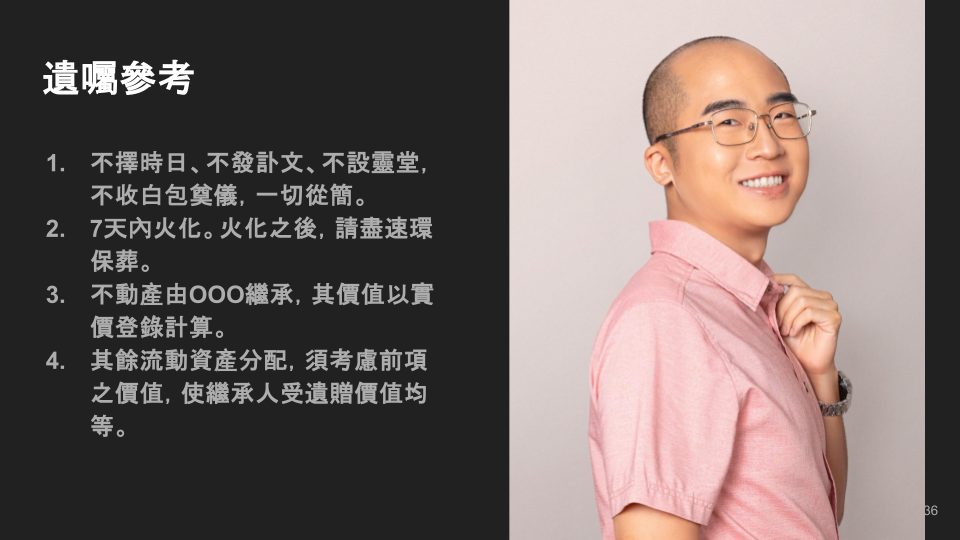
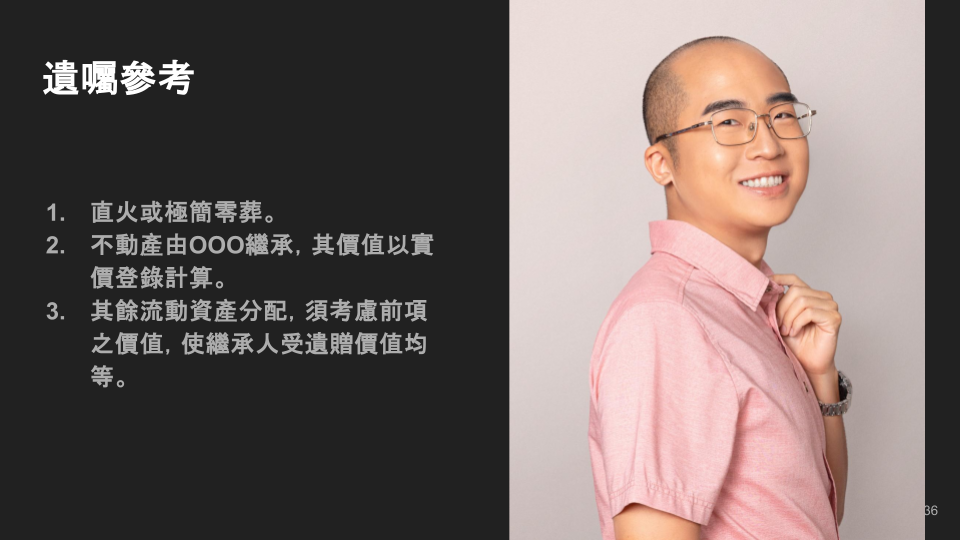
wip

diff --git a/finance/retirement-2.md b/finance/retirement-2.md
@@ -1,19 +1,11 @@
 ---
 description: 退休規劃(下)》涵蓋財務、醫療、法律及生死議題，適合規劃退休生活及希望減少家人壓力的人。
-outline: deep
+outline: [2,3]
 ---
 
 # 退休規劃（下）：全面考量財務、醫療、法律及生死規劃
 
 在整理這篇文章的過程中，我廣泛參考了各類退休規劃書籍，以全方位了解退休生活的需求，從財務安排到健康管理，再到法律保障。然而，在探索生死議題時遇到了一些挑戰，直到發現「[冬瓜行旅](https://owt.com.tw/)」網站，這才填補了最後一塊拼圖。這篇退休規劃指南綜合了各方資源，旨在為讀者提供在財務、醫療、法律及生死議題上的清晰路徑，助您規劃一個安心、充實的退休生活。
-
-在生死規劃中，兩個重要的概念——「**天堂筆記本**」與「**單程行李箱**」——值得特別關注。這些概念不僅幫助人們以具體的準備面對最終安排，也有效減輕了家人的負擔：
-
-- **天堂筆記本**：天堂筆記本是一本全面記錄個人重要資訊的筆記，涵蓋財務、醫療、保險、法律等資料，以方便家屬在關鍵時刻找到所有必要的訊息。這本筆記包含遺產分配、保單詳情、重要文件位置等，確保遺族在處理後事時有完整的指南，減少無所適從的感覺。
-
-- **單程行李箱**：這是一個象徵性的概念，意指在人生的最後旅程前將「行李」整理妥當，包括遺願的表達、紀念物的整理、重要事項的交代等。透過準備單程行李箱，家屬能更從容地接受並管理遺物，既能追憶逝者，也能妥善處理各項遺留事務。
-
-這兩個概念為生死規劃注入了溫情與實用性，讓我們能夠從容準備好這趟「單程旅程」，同時也為家人留下最溫暖的關愛。希望這篇指南能在財務、醫療、法律與生死議題上為您提供全面的建議，助您做好退休後的每一項安排。
 
 ![冬瓜行旅](/finance/retirement/冬瓜行旅.jpg "冬瓜行旅")
 
@@ -61,51 +53,35 @@ outline: deep
 
 ![數位資產範例](/finance/retirement/數位資產範例.png "數位資產範例")
 
-### 海外券商
+### 海外券商 vs 國內複委託
 
-選擇海外券商進行投資，例如 **eToro**、**TD Ameritrade** 或 **First Trade**，雖然在手續費和進階功能上可能更具吸引力，但從退休規劃的角度來看，這些選擇也伴隨著許多潛在風險，特別是在遺產繼承和稅務上：
+海外券商和國內複委託各自有其優劣，對於想透過海外投資進行退休規劃的人來說，這兩種途徑的選擇應該根據長期的資產穩定性、管理便捷性及稅務考量來進行。海外券商在費用和功能上可能具有一定吸引力，但在資產透明性及繼承便捷性方面，卻不如國內複委託。以下為兩者的詳細比較：
 
-1. **資產不透明性**：家屬通常不會知道這些海外帳戶的存在，除非投資者提前留下詳細記錄。一旦投資者過世，家屬若不了解資產細節，取回資產的過程會非常困難，甚至無法追回。
+#### 1. 資產透明性與繼承便捷性
 
-2. **跨國法規的遺產稅負擔**：根據美國遺產稅法，若在美國擁有資產，家屬必須在投資人死亡後的9個月內向美國國稅局（IRS）繳交相關文件。文件要求嚴格，且[表格（706-NA）](https://www.irs.gov/pub/irs-pdf/f706na.pdf)必須精確填寫，否則可能會遭受罰款。對於家屬而言，需跨國處理遺產手續，且同時面對美國和本國的法規和稅務，這樣的負擔極為繁重。
+海外券商帳戶在資產透明度方面存在挑戰，因為家屬往往不清楚帳戶的存在，若投資人未提前交代，家屬可能無法查詢帳戶，也難以取回資產。相比之下，國內券商管理的複委託資產完全記錄在國內系統中，家屬只需向券商查詢即可掌握，過程簡單透明，顯著降低了繼承的難度和不確定性。
 
-3. **適用性有限**：在線上券商投資更適合經常更換國籍的投資者，而非有長期退休資產需求的投資者。對於希望退休資產穩定並容易管理的人來說，選擇海外券商增加了遺產繼承的難度和風險，無論在財務或法規上都可能帶來麻煩。
+#### 2. 稅務負擔與法規風險
 
-綜上所述，從退休規劃的角度選擇海外券商雖有其優勢，但其複雜的稅務和法規負擔增加了資產管理風險。
+選擇海外券商進行投資，意味著家屬可能需要同時應對跨國稅法。例如在美國擁有資產的情況下，家屬需在投資人過世後9個月內向美國國稅局（IRS）提交申報文件，且文件填寫須精確以避免罰款。國內複委託則讓資產遵循本國法規處理，家屬僅需依國內稅務規定申報遺產稅，減少了跨國稅務和法律合規的風險，簡化手續的同時，也降低了稅務負擔。
 
-### 複委託
+#### 3. 適用性與長期性考量
 
-與海外券商相比，**複委託**（由國內券商代為執行的海外交易）儘管交易手續費較高，但在退休規劃中更具優勢，因為它提供了以下保障：
+海外券商更適合需靈活應對多國投資的投資人，對於退休資產安全性和繼承便捷性需求高的投資者則可能風險較大。相比之下，複委託因國內券商統一管理資產、提供穩定且便捷的繼承程序，特別適合退休資產的長期規劃。複委託雖然手續費較高，但其穩定性、資產透明性及法律保障，讓投資人可安心進行長期投資，且家屬也能更順利地完成繼承。
 
-1. **資產透明和便捷性**：複委託的資產由國內券商管理，交易明細和持有的資產記錄都在國內券商系統內，家屬只需向券商查詢，流程透明、便捷。即使遺族沒有直接管理投資經驗，也能輕鬆找到相關資料。
-
-2. **法律保障與風險降低**：由於複委託是國內券商管理，資產在法律上屬於國內資產。這樣家屬僅需依據本國法規繳納遺產稅，無需面對兩國不同的稅法，減少了不必要的跨國法律風險。
-
-3. **便於繼承和轉移**：複委託資產在券商的帳戶內統一管理，家屬能更方便地辦理資產繼承手續，也不需擔心因跨國法規不同而影響到資產轉移。此外，國內券商的客服也能協助處理相關手續，減少家屬在情緒困難期的額外壓力。
-
-總而言之，從退休規劃的角度，複委託的穩定性、便利性與法律保障更符合退休後的投資需求，確保資產的安全和家屬的繼承便捷性。這樣的安排，不僅能讓您安心地分散投資，也減少了往生後家屬在財務上遇到的風險與困難。
+總結而言，從退休規劃角度看，複委託雖然在手續費上較高，但其資產管理、法律風險及繼承便捷性上更具優勢，更適合退休後長期的資產配置需求。
 
 ![複委託](/finance/retirement/複委託.png "複委託")
 
 ### 金融資產
 
-在整理生前和身後的金融資產時，透過有效的查詢工具，可以大幅提升透明度與效率，確保資產妥善管理，減少遺漏的風險。以下為常見的查詢方式：
-
-#### 生前金融資產查詢
+在整理生前金融資產時，透過有效的查詢工具，可以大幅提升透明度與效率，確保資產妥善管理，減少遺漏的風險。以下為常見的查詢方式：
 
 1. [**國稅局財產資料查詢**](https://www.etax.nat.gov.tw/etwmain/etw108w)：個人可透過國稅局查詢名下的動產和不動產資料，精確了解資產分布情況，便於全面掌握財產狀況。
-   
+
 2. [**銀行公會存款查詢**](https://www.ba.org.tw/PublicInformation/BusinessDetail/31)：透過銀行公會查詢各家銀行的存款帳號，一次查詢所有銀行存款資訊，便於統整並掌握所有銀行資產。
 
 3. [**集保帳戶及基金資料查詢系統**](https://taq.tdcc.com.tw/QRY/mainc.jsp)：投資者可以透過此系統查詢名下的股票、債券和基金，以便完整了解投資組合，掌握資產的全面分布。
-
-#### 身後金融資產查詢
-
-若投資人不幸過世，[國稅局的「單一窗口查詢金融遺產」](https://www.ntbt.gov.tw/multiplehtml/d0fb820339664903a443ef214be0bbce)是一項便捷的工具，旨在幫助遺族快速查詢所有金融資產。過去需要逐一查詢多個銀行或金融單位，但如今透過國稅局的單一窗口即可完成，查詢範圍包括存款、股票、基金、保險及其他金融工具，讓遺產查詢流程簡化，減少遺族的負擔與時間成本。
-
-這項服務不僅讓遺族能夠全面掌握逝者的金融資產，也有效減少遺產分配中可能遺漏的資產風險。遺族只需向國稅局提出申請並提供必要文件，經過審核後即可取得完整的查詢結果，使遺產處理更透明與便捷，成為處理遺產的重要工具。
-
-![單一窗口查詢金融遺產](/finance/retirement/單一窗口查詢金融遺產.jpg "單一窗口查詢金融遺產")
 
 ## 醫療
 
@@ -208,7 +184,6 @@ ACP 和 AD 的設置能讓個人更早確立並傳達其醫療意願，減輕家
 
 這些節稅管道為家庭財務管理提供了靈活性，有助於通過合理安排來降低遺產稅負擔，並保障資產傳承的順利進行。
 
-
 ### 遺囑種類及差異
 
 不同類型的遺囑在執行時對見證人需求和製作方式有不同要求，選擇合適的遺囑形式能確保遺囑內容得以合法並順利執行。遺囑的相關法律規範可參閱[民法第五編第三章](https://law.moj.gov.tw/LawClass/LawParaDeatil.aspx?pcode=B0000001&bp=133)，其中詳細說明了遺囑的製作方式、見證人資格和各種遺囑形式的法律要件，以保障遺囑的有效性並避免後續爭議。
@@ -220,7 +195,6 @@ ACP 和 AD 的設置能讓個人更早確立並傳達其醫療意願，減輕家
 | **代筆遺囑** | 由他人代為書寫，遺囑人需簽名並有見證人在場。 | 是（3人以上） |
 | **公證遺囑** | 遺囑由公證人製作，並有見證人在場，具法律保障。 | 是（2人以上） |
 | **密封遺囑** | 遺囑由遺囑人密封，交由公證人保管，見證人在場。 | 是（2人以上） |
-
 
 #### 案例：遺囑見證人爭議
 
@@ -240,37 +214,79 @@ ACP 和 AD 的設置能讓個人更早確立並傳達其醫療意願，減輕家
 
 ## 生死
 
-### 完整殯葬流程
-
-在傳統與現代殯葬儀式中，完整的殯葬流程通常包括以下步驟：
-
-1. **臨終關懷**：家屬需準備好必要文件，瞭解所需的宗教儀式，並由殯儀人員簡介殯葬流程，協助家屬心理準備，減少後續壓力。
-2. **遺體接運與安置**：殯儀公司將遺體從醫院或家中接運至殯儀館或靈堂，並根據傳統儀式進行冰存或適當安置（如男左女右、頭內腳外）。
-3. **豎靈與靈堂設置**：設置靈堂和豎立靈位（神主牌），為親友提供悼念空間，按照傳統儀式的規範佈置，以表達對逝者的尊敬。
-4. **訃聞／發喪**：印製訃聞，通知親友喪禮的具體安排，讓至親好友知悉出殯日期，方便前來悼念和送別。
-5. **入殮**：小殮時對遺體進行整理和更衣，大殮則將遺體正式入棺，並完成蓋棺儀式，以備出殯。
-6. **治喪協調與告別追思**：治喪團隊協調家奠、公奠（告別式），家屬、親友及外賓依序進行追思和奠祭儀式，表達對逝者的哀悼。
-7. **火化、安葬**：告別儀式後進行火化，並依家屬意願將骨灰安置於靈骨塔、祠堂或墓地，亦可選擇直接土葬。
-8. **進塔／晉塔／進金**：骨灰火化後安置於靈骨塔或祠堂，進行晉塔儀式，並祭拜亡者和土地公，確保亡者靈魂安息。
-9. **返主安靈**：安葬後將亡者神主牌返主供奉，設置靈桌並進行安靈儀式，為逝者靈位找到穩定的祭拜之處。
-10. **慎終追遠**：後續的百日、對年、三年等時刻，以及清明、忌日的祭拜和掃墓，延續對亡者的思念。
-
-此流程涵蓋了從遺體接運到火化安葬及後續祭拜的各環節，尊重傳統的同時提供靈活選項。家屬可根據宗教信仰和文化偏好進行選擇和調整，以平衡禮儀與實際需求。更詳細資訊可參考冬瓜行旅的[中式喪禮小百科](https://owt.com.tw/taiwanese-funeral/)。
-
-![冬瓜行旅](/finance/retirement/冬瓜行旅.jpg "冬瓜行旅")
-
 ### 何謂“一切從簡”？
 
-「一切從簡」的殯葬流程，亦稱「[直火式](https://www.4450.com.tw/service/%E6%AD%B8%E7%A9%BA%E7%9B%B4%E7%81%AB)」或「[極簡式](https://www.hd-fs.com.tw/%E6%AE%AF%E8%91%AC%E8%B2%BB%E7%94%A8_%E6%A5%B5%E7%B0%A1%E9%9B%B6%E8%91%AC%E5%9E%8B.html)」殯葬，旨在用最簡便的方式完成遺體處理，強調高效、低成本，並減少對環境的負擔。這種流程適合希望殯葬過程儉約的家庭，特別是注重環保或希望減少繁文縟節的人。以下是每一步的詳情：
+「一切從簡」的殯葬流程，亦稱為「[直火式](https://www.4450.com.tw/service/%E6%AD%B8%E7%A9%BA%E7%9B%B4%E7%81%AB)」或「[極簡式](https://www.hd-fs.com.tw/%E6%AE%AF%E8%91%AC%E8%B2%BB%E7%94%A8_%E6%A5%B5%E7%B0%A1%E9%9B%B6%E8%91%AC%E5%9E%8B.html)」，旨在以最簡便的方式完成遺體處理，強調效率、低成本，並減少對環境的影響。這種方式適合希望儉約的家庭，特別是注重環保或希望減少繁瑣儀式的家庭。具體流程如下：
 
-1. **接送**：逝者身故後，家屬通知殯葬業者將遺體從醫院或家中直接接送至火葬場，不需暫時安置於殯儀館或設置靈堂。這一步驟省去了遺體停放和靈堂佈置的費用，直接進入後續流程。
-2. **入殮**：在火葬場或指定地點進行簡單的入殮處理。這通常包含將遺體安置在簡便的棺木或火葬專用容器中，不需進行防腐處理、整容或化妝。這樣的簡單入殮既節省成本，也符合快速、樸素的殯葬理念。
-3. **火化**：遺體接送和入殮完成後，無需選擇特定時日或舉行告別儀式，便可立即進行火化。火化過程中，家屬可以選擇是否陪同見證，但不安排正式的告別會或祭拜儀式。火化程序結束後，遺體火化成骨灰，由殯葬人員進行冷卻和骨灰收集。
-4. **環保葬**：火化後的骨灰可由家屬選擇環保葬的方式處理，例如海葬、樹葬、撒入花園或森林等自然環境。這些環保葬法不僅免去骨灰罈和靈骨塔的存放費用，還能減少對土地資源的佔用，更符合現代人對於永續和環保的需求。
+1. **接送**：逝者身故後，家屬可通知殯葬業者將遺體從醫院或家中直接送至火葬場，無需暫時安置於殯儀館或設置靈堂。此步驟省去靈堂佈置及租用費用，使流程更為簡便。
 
-「一切從簡」的殯葬安排提供了相對於傳統儀式更現代、更環保的選項，讓逝者安息的過程既平靜莊重，又減輕了家屬的心理與經濟負擔。
+2. **入殮**：在「一切從簡」的流程中，入殮指將遺體安置於火葬場或指定地點，使用簡便的棺木或火葬專用容器，且無需進行防腐處理。防腐多用於延長保存，而在此流程中，由於火化迅速進行，防腐並非必要，這樣可使流程更符合儉約與環保的理念。
+
+3. **火化**：遺體接運和入殮完成後，即可直接進行火化，無需挑選特定時辰，也不設告別儀式。家屬可以選擇是否在場見證，但通常不安排正式祭拜活動。火化結束後，由殯葬人員冷卻並收集骨灰。如選擇環保葬，或於七日內完成火化，火化費用可獲減免，進一步減輕家屬負擔。
+
+4. **環保葬**：火化後的骨灰可由家屬選擇自然處理方式，如海葬、樹葬、撒入花園或森林等。環保葬法不僅免去骨灰罈和靈骨塔的費用，還減少土地占用，更符合現代人對環保與永續的追求。
+
+「一切從簡」的殯葬方式提供了相較傳統儀式更現代、更環保的選擇，使逝者的安息過程既平靜莊重，又減輕家屬的心理和經濟負擔。
 
 ![環保葬](/finance/retirement/環保葬.jpg "環保葬")
+
+### 喪葬補貼與死亡給付
+
+勞工在家屬過世時，除了可以申請**勞工保險的家屬死亡給付**，公司內的**職工福利委員會（職福會）**也可能提供**喪葬互助**等相關補助。以下是詳細說明：
+
+#### 勞工保險的家屬死亡給付
+
+根據勞工保險規定，當被保險人的直系親屬（如配偶、父母、子女）過世時，被保險人可以申請家屬死亡給付。
+
+- **給付對象**：被保險人的配偶、父母、子女
+- **給付標準**：喪葬津貼為被保險人月投保薪資的三個月金額
+- **申請期限**：應於家屬死亡之翌日起五年內提出申請
+
+詳細資訊可參考[勞動部勞工保險局的官方說明](https://www.bli.gov.tw/0017482.html)。
+
+#### 職工福利委員會的喪葬互助
+
+許多公司設有職工福利委員會，為員工提供各種福利，包括喪葬互助。這些互助措施通常由職福會每月從員工薪資中扣繳福利金，專款設置「同仁互助福利基金」，以辦理員工互助事宜。
+
+- **申請條件**：根據公司內部規定，需向職福會申請
+- **給付內容**：因公司規定而異，具體內容請洽公司人力資源部門或職福會
+
+具體的喪葬互助內容和申請方式可能因公司規定而有所不同，建議您向公司人力資源部門或職福會查詢相關細節。
+
+透過上述兩種途徑，勞工在家屬過世時可以獲得一定的經濟協助，減輕喪葬負擔。
+
+![職工福利委員會](/finance/retirement/職工福利委員會.jpg "職工福利委員會")
+
+### 遺產稅流程
+
+1. **除戶登記**：至戶政事務所辦理逝者除戶登記，並取得相關文件。
+2. **查調所得財產**：向金融機構或政府機關查詢逝者的所有財產，包括存款、不動產、證券等。
+3. **申報遺產稅**：在申報遺產稅時，您可以利用國稅局提供的「[單一窗口查詢金融遺產](https://www.ntbt.gov.tw/multiplehtml/d0fb820339664903a443ef214be0bbce)」服務，方便地查詢被繼承人的金融遺產資料。此服務可透過線上申請或親自前往國稅局辦理。查詢內容包括存款、基金、上市（櫃）有價證券、人身保險等多項金融資產。透過此服務，您可以更全面地掌握被繼承人的財產狀況，協助準確申報遺產稅。
+4. **取得遺產稅證明**：申報完成後，國稅局核發遺產稅完稅或免稅證明。
+5. **查詢有無欠稅**：確認逝者是否尚有未繳納的稅款，避免遺產過戶後出現稅務問題。
+6. **辦理遺產過戶**：持遺產稅證明、繼承權文件等，辦理財產過戶手續，使遺產正式轉移給繼承人。
+
+#### 房地產
+
+房地產繼承需辦理[不動產過戶手續](https://www.etax.nat.gov.tw/etwmain/tax-info/house-land-transfer-taxtation-calculation-area/inheritance/file-process)，繼承人向地政事務所申請繼承登記，並依公告現值計算遺產稅，需提供繼承權證明文件和不動產登記證明等資料。
+
+#### 汽機車
+
+車主過世後，車輛繼承過戶需由繼承人持遺產稅證明、身份證、行車執照、有效30日以上的強制保險證明和遺產分割協議書，到監理站[辦理手續](https://168.motc.gov.tw/theme/news/post/1906121102219)。此外，若汽車已滿10年或機車已滿5年，過戶前需先完成臨時檢驗。
+
+#### 銀行存摺
+
+銀行存款的繼承需持法院核發的繼承權證明書或遺囑執行文件至[銀行辦理](https://www.taishinbank.com.tw/TSB/export/sites/TSB/files/Deposit-and-safe-deposit-box-inheritance-application-form11212.pdf)，並提供身份證明等文件。銀行會凍結帳戶，待文件審核後方可提領。
+
+#### 證券
+
+證券如股票、債券等的繼承需持繼承權證明、身份證等文件至證券公司辦理[過戶手續](https://www.yuanta.com.tw/eyuanta/webfile/resourcesFile/767551c5-f983-4b2a-9c01-d0ad315bf62c.pdf)。過戶後，繼承人可選擇持有或變現，並需依公告市值計算遺產稅。
+
+不同資產類型的繼承手續和所需文件有所不同，建議繼承人熟悉流程，以確保資產順利合法過戶。
+
+![單一窗口查詢金融遺產](/finance/retirement/單一窗口查詢金融遺產.jpg "單一窗口查詢金融遺產")
+
+<!-- ![辦理過戶](/finance/retirement/辦理過戶.jpg "辦理過戶") -->
 
 ## 簡報
 
